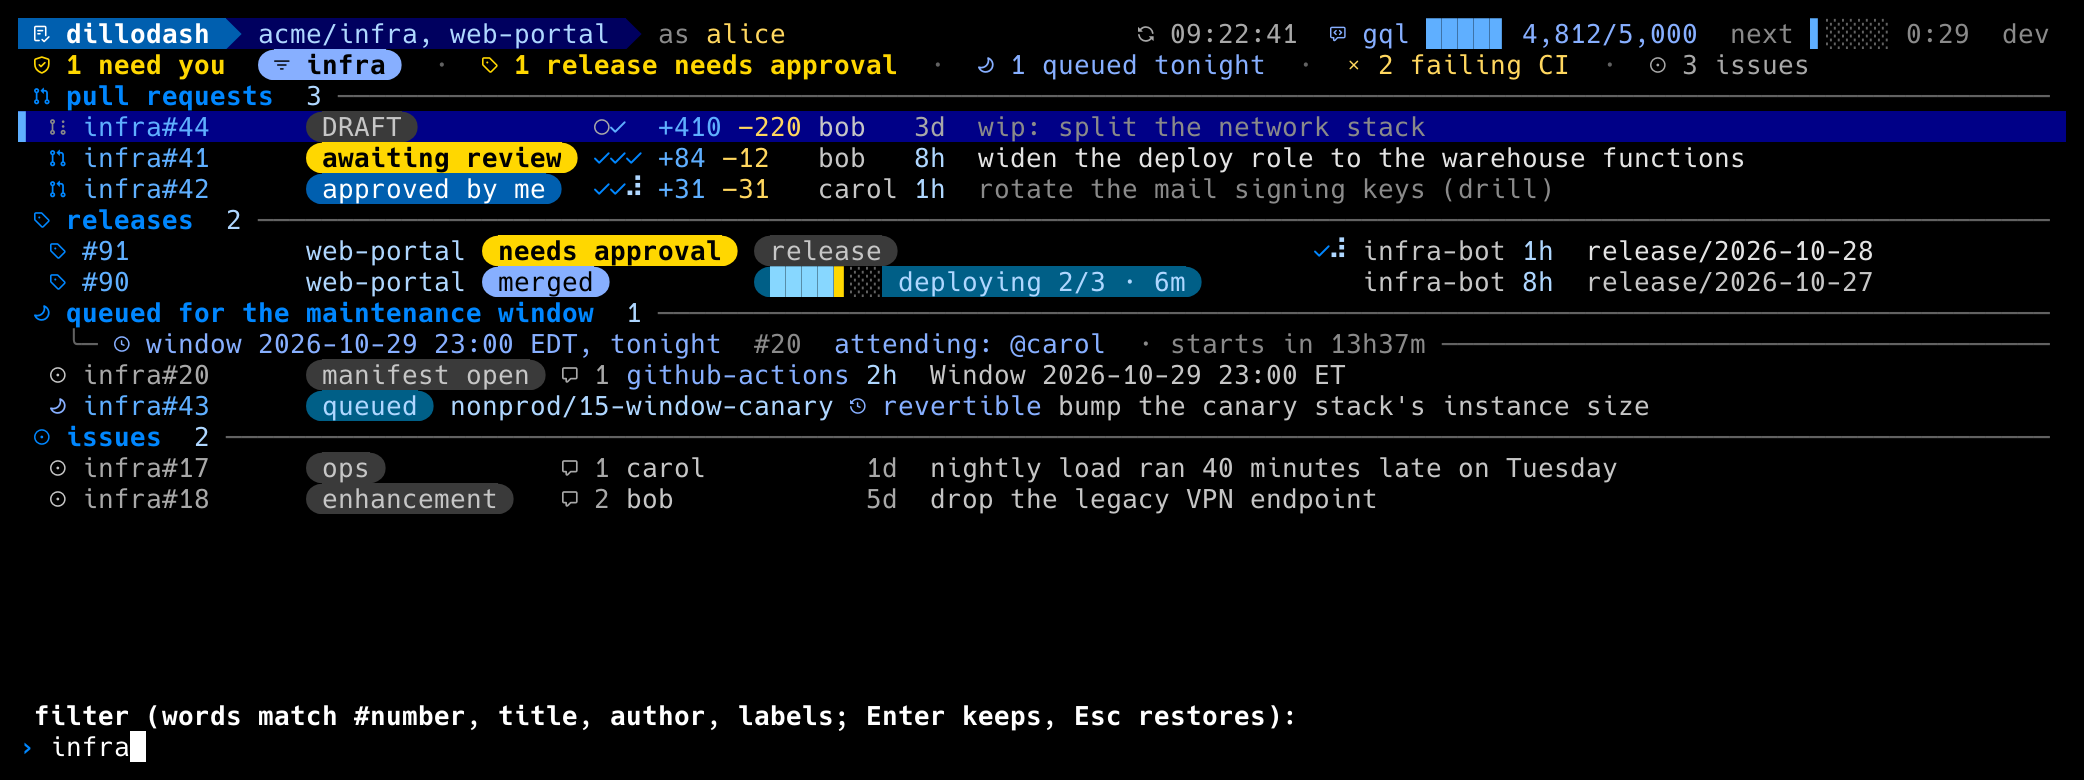
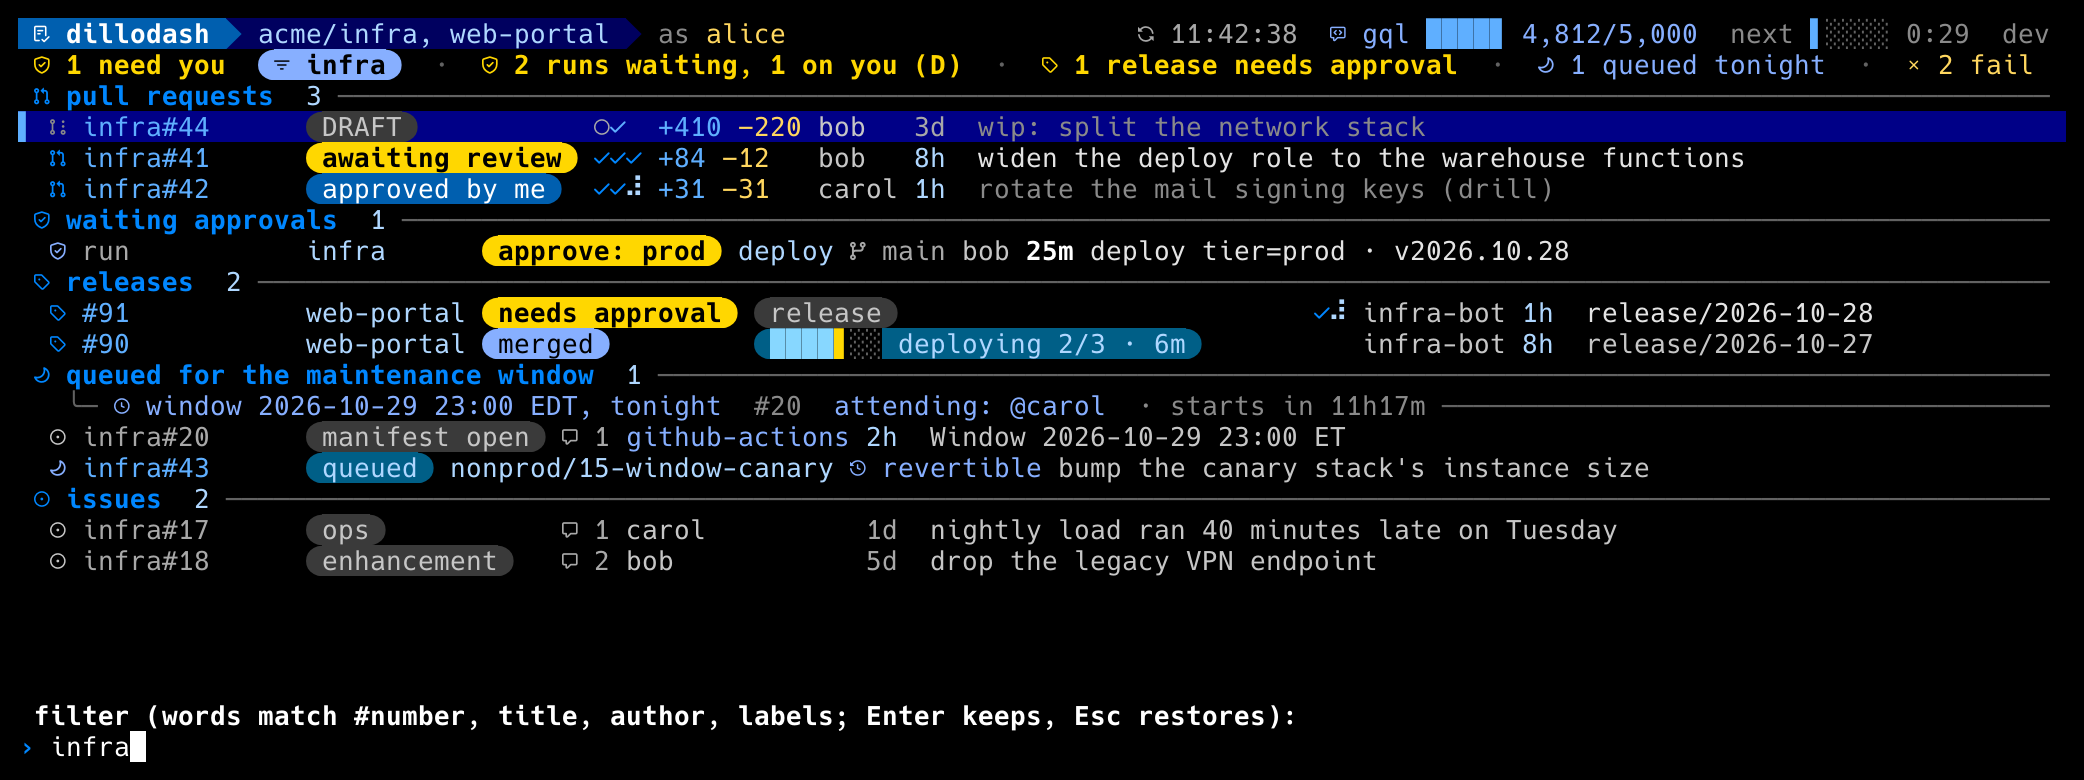
docs: the waiting approvals section and Chicago in the gallery; stale lines fixed
- waiting-runs.md shows the section and D on a run; fortress.md shows
  both cities, captions say which
- troubleshooting: a run on an open PR's head is listed (only a listed
  merged PR's merge commit claims it)
- display.md names the waiting-run chips; configuration.md says config
  migrate writes pr-dash's three workflows, not waiting_runs
- CONTRIBUTING: what the demo carries, Expect and the city pin
- shots regenerated; CHANGELOG Unreleased

Claude-Session: https://claude.ai/code/session_01WRY15Li4sx37JLQdtF1ThS

Changed region(s): [[0.0, 0.2769, 0.9045, 0.7385], [0.2183, 0.0308, 0.8733, 0.0923], [0.9357, 0.0615, 0.9669, 0.0923]]

diff --git a/internal/ui/shots.go b/internal/ui/shots.go
@@ -22,8 +22,11 @@ var ShotCaptions = map[string]string{
 	"release-rail":           "A release in flight on the list: its rail fills phase by phase, with the phase and its clock",
 	"release-card":           "Mission control for a release in flight: the T+ clock, the rail with Amos on it, one row per phase with its clock and its technical tail, the run",
 	"release-launch":         "When a release lands: the rocket, the fireworks and RELEASED! across the screen",
+	"waiting-runs":           "The waiting approvals section: Actions runs waiting on an environment with no listed PR behind them, approve: prod when you are a reviewer, waits: when someone else is",
+	"waiting-runs-approve":   "D on a waiting run: the environments you review, confirmed before they are approved",
 	"window-card":            "A PR queued for the maintenance window, opened: its plan card, disruptive and revertible",
-	"fortress":               "Fortress mode: every repo as a lane of branches and pull requests, the oldest work furthest out",
+	"fortress-chicago":       "Fortress mode over Chicago: Madison is today and older work lies south toward Indiana, Lake Michigan to the east",
+	"fortress":               "Fortress mode over Manhattan: every repo as a lane of branches and pull requests, the oldest work furthest north",
 	"splash":                 "The splash while the first refresh runs: the logotype cascades in and Amos walks",
 	"amos":                   "Nothing to show: Amos walks the empty list under the stars",
 	"icons-nerd":             "The list with the bundled Nerd Font's icons",

diff --git a/CONTRIBUTING.md b/CONTRIBUTING.md
@@ -31,7 +31,7 @@ internal/doctor             `config check`
 internal/demo               the offline fixture behind --demo and the screenshot
 internal/hygiene            the private-terms test over the whole tree
 cmd/gen-amos                regenerates the Amos sprite from assets/amos.png (rendered from assets/amos-rough.pdf)
-cmd/screenshot              renders docs/screenshot.png from the demo fixture
+cmd/screenshot              renders docs/screenshot.png and docs/shots/ from the demo fixture
 ```
 
 Two files are generated and checked by tests: `config.example.toml` at the
@@ -60,14 +60,19 @@ a test (`TestNoPrivateTerms`) checks for a denylist the maintainers hold.
 ## Running it against a fake
 
 `go run . --demo` opens the dashboard on the fixture without touching
-GitHub (it carries a release in flight, so the rail and the mission-control
-card are on screen). `go run ./cmd/screenshot` renders the same fixture
+GitHub. All four workflows are on: a release is in flight (the rail and
+the mission-control card), a PR is queued for tonight's window, and two
+Actions runs wait on an environment, one of them on you. `go run ./cmd/screenshot` renders the same fixture
 offline with the embedded font and the theme's colors: `docs/screenshot.png`
 (the README's picture) and the gallery in `docs/shots/`, one PNG per shot
 in `cmd/screenshot/shots.go`; `-only name,…` renders a few. Regenerate
-after a visible change and commit the PNGs: a test checks that every
-picture a doc embeds is a shot, that every shot is embedded, and that every
-script still runs on the fixture.
+after a visible change and commit the PNGs. The tests check that every
+picture a doc embeds is a shot with its caption (`ui.ShotCaptions`) as
+alt text, that every shot is embedded, and that every script still runs
+on the fixture and lands where its `Expect` says. A new row in the
+fixture moves the cursor-driven scripts, and the test names the shot that
+went astray. Fortress shots pin their city (`SnapshotOptions.City`); the
+`d` key alone flips a coin.
 
 ## Style
 

diff --git a/docs/troubleshooting.md b/docs/troubleshooting.md
@@ -28,7 +28,7 @@ every repo.
 | `M` or `D` answers `403 … not accessible by personal access token` | The token needs Contents (merge) or Deployments (approvals) read and write on that repo. The message names it. |
 | A merged PR says `stuck? …` | A run on its merge commit has been queued or running longer than `deploy_stuck_secs` (45 minutes by default). Check it in that repo's Actions; dillodash only reads runs, never cancels or re-runs them. |
 | The `releases` section is missing a repo enrolled today | Discovery is cached for a day. Delete `$XDG_CACHE_HOME/dillodash/release-repos-<org>.json` (default `~/.cache/dillodash/`) and press `r`. |
-| A run waiting on an environment is not in `waiting approvals` | Its repo is not in `[workflows.waiting_runs] repos`, the warn line says the token cannot read its Actions, or it runs on a listed PR's head or merge commit: then it is that PR's, and `D` on the merged PR approves it. |
+| A run waiting on an environment is not in `waiting approvals` | Its repo is not in `[workflows.waiting_runs] repos`, the warn line says the token cannot read its Actions, or it runs on the merge commit of a merged PR the dashboard lists (a review PR, or a release): then it is that PR's, and `D` on the PR approves it. A run on an open PR's head is listed. |
 | Release rows show no CI | The token cannot read the check rollup and lacks `Actions: read` on the release repos; grant it. Release rows use the same Actions fallback as the review list. |
 | Too much motion, or a slow SSH link | `--motion off` (or `motion = "off"`). Ambient effects rest by themselves after five minutes without a key. |
 | Detail header says `last 100 of N comments` | GraphQL returns at most 100 comments, the newest. Older ones (and digests in them) are not seen; read the thread on GitHub. |

diff --git a/docs/workflows/waiting-runs.md b/docs/workflows/waiting-runs.md
@@ -27,6 +27,8 @@ deployment APIs.
 
 ## What you see
 
+![The waiting approvals section: Actions runs waiting on an environment with no listed PR behind them, approve: prod when you are a reviewer, waits: when someone else is](../shots/waiting-runs.png)
+
 - **The `waiting approvals` section** sits between the pull requests and
   the releases, one row per waiting run, the one waiting longest first:
   `run`, the repo (when more than one repo is configured or reviewed), a
@@ -65,6 +67,8 @@ does not approve it (it approves merged PRs only), so this row is where it
 can be.
 
 ## `D`
+
+![D on a waiting run: the environments you review, confirmed before they are approved](../shots/waiting-runs-approve.png)
 
 `D` on a run row reads the run's environments again (someone may have
 approved one since the refresh), then:

diff --git a/docs/display.md b/docs/display.md
@@ -17,7 +17,7 @@ author) so the title keeps at least 24 cells.
 | blue `approved by me` | the row dims and stays in the default list until the PR merges, so approving never makes a PR silently vanish |
 | gold-on-gray `changes requested` | |
 | gray `DRAFT` | |
-| workflow chips | `applied, needs review`, `re-planned since queued`, `needs approval`, `not a release` and the window states come from the workflows; their docs explain them |
+| workflow chips | `applied, needs review`, `re-planned since queued`, `needs approval`, `not a release`, the window states, a release's rail and a waiting run's `approve: prod` / `waits: prod` come from the workflows; their docs explain them |
 
 PRs approved only by others are hidden by default; `A` shows them.
 Approvals made with `a` mark the row instantly, for the head they

diff --git a/docs/configuration.md b/docs/configuration.md
@@ -116,9 +116,10 @@ times and malformed repo names are errors. Errors read
 `gh dillodash config migrate` converts a `~/.config/pr-dash/config.ini`
 (pass `--from PATH` for another location). Token sources are dropped (the
 `gh` login replaces them), `[defaults]` becomes `[reviews]` and
-`[display]`, and the three workflows are written enabled with their
+`[display]`, and pr-dash's three workflows (`terraform_approve`,
+`maintenance_window`, `release_pr`) are written enabled with their
 defaults, headed by a comment telling you to disable the ones your repos
-do not speak.
+do not speak. `waiting_runs` is new in dillodash; add its table by hand.
 
 ## Files dillodash writes
 

diff --git a/CHANGELOG.md b/CHANGELOG.md
@@ -1,5 +1,22 @@
 # Changelog
 
+## [Unreleased]
+
+### Added
+
+- `--demo` carries two Actions runs waiting on an environment, so the
+  `waiting approvals` section, its summary and `D` on a run are on screen.
+  The gallery gains the section, `D` on a run, and fortress mode over
+  Chicago next to Manhattan.
+
+### Fixed
+
+- The gallery's scripts are checked against what they draw: each shot
+  names the text its frame must show, and the README's picture must open
+  the release. A new fixture row used to shift the cursor-driven shots
+  silently onto the wrong row. The fortress shot no longer flips a coin
+  for its city on every render.
+
 ## [1.5.0]
 
 ### Added

diff --git a/docs/fortress.md b/docs/fortress.md
@@ -1,6 +1,8 @@
 # Fortress mode (`d`)
 
-![Fortress mode: every repo as a lane of branches and pull requests, the oldest work furthest out](shots/fortress.png)
+![Fortress mode over Manhattan: every repo as a lane of branches and pull requests, the oldest work furthest north](shots/fortress.png)
+
+![Fortress mode over Chicago: Madison is today and older work lies south toward Indiana, Lake Michigan to the east](shots/fortress-chicago.png)
 
 `d` in the list draws everything open as a Dwarf Fortress map over
 **Manhattan** or **Chicago** (a coin flip on each `d`; `c` swaps). It is a

diff --git a/docs/keys.md b/docs/keys.md
@@ -94,4 +94,4 @@ Rendered from the offline demo fixture by `go run ./cmd/screenshot`.
 
 **`d`: fortress mode**
 
-![Fortress mode: every repo as a lane of branches and pull requests, the oldest work furthest out](shots/fortress.png)
+![Fortress mode over Manhattan: every repo as a lane of branches and pull requests, the oldest work furthest north](shots/fortress.png)
